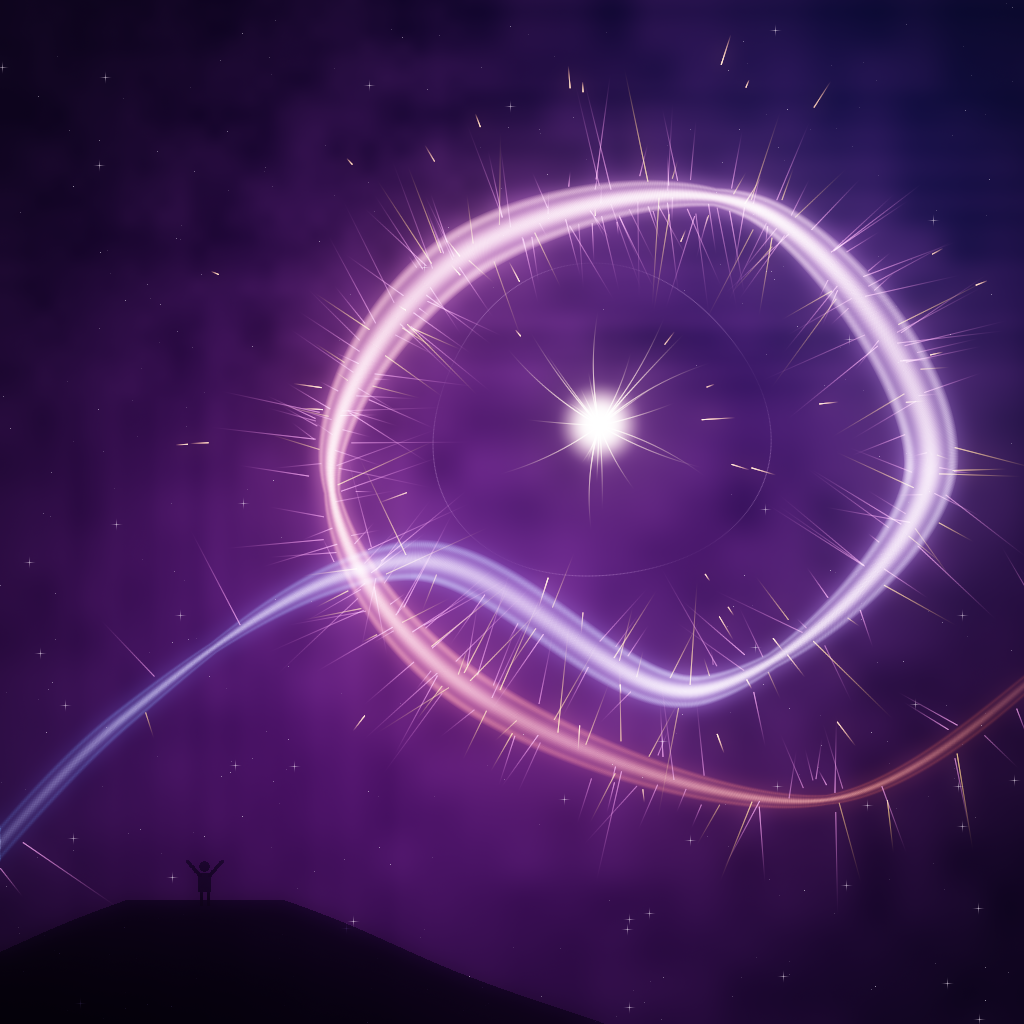
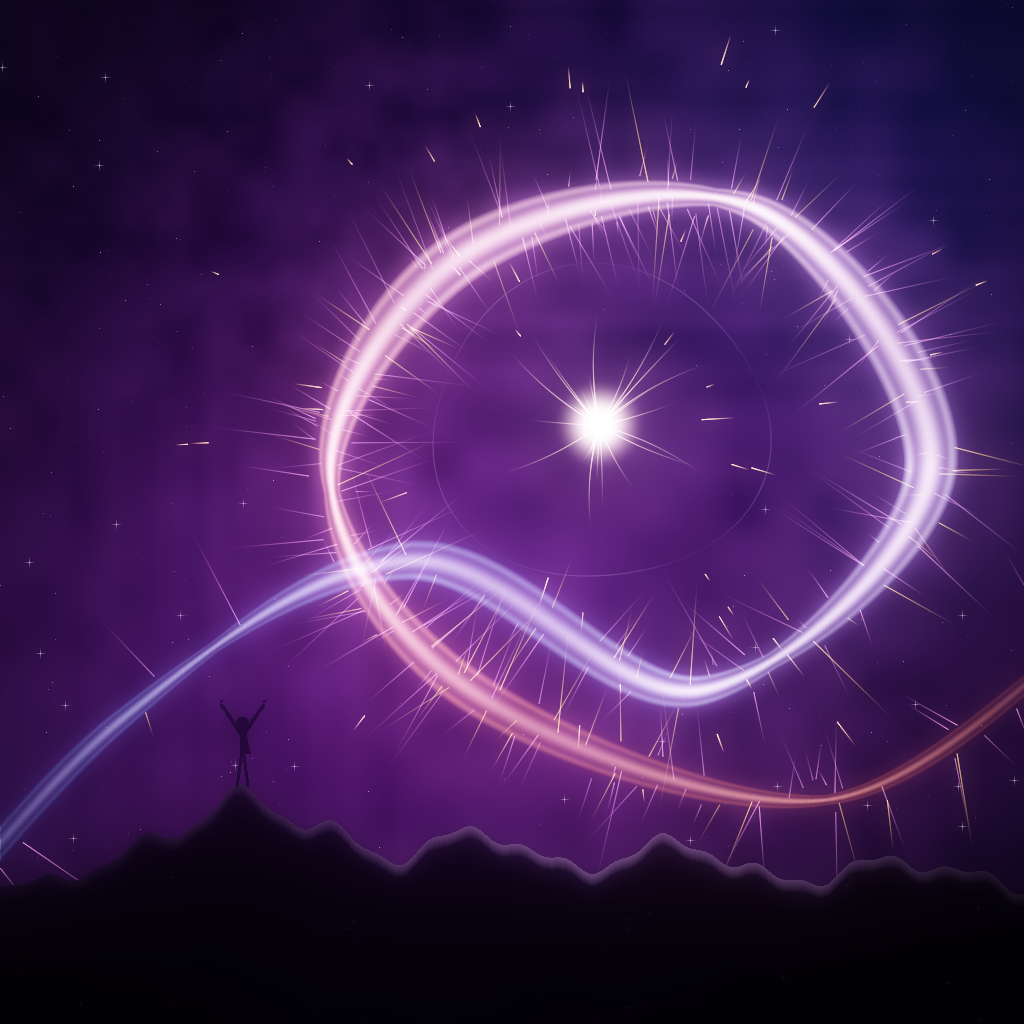
Jagged ridge with rim light, awed witness figure

Changed region(s): [[0.0, 0.6875, 1.0, 1.0]]

diff --git a/main.py b/main.py
@@ -254,55 +254,94 @@ def embers(img):
 
 
 def silhouette(img):
-    """A tiny figure on a dark ridge, arms raised to the light: the scale beat."""
+    """A dark jagged ridge across the foot of the frame with one small witness
+    standing on its peak, arms thrown out: the scale beat under all that light."""
     rng = random.Random(17)
-    fx, fy = 0.20 * W, 0.885 * H          # feet on the ridge
-    hgt = 46                              # ~4.5% of frame: small but readable
-    # the ridge: a dark slope the figure stands on
-    for y in range(int(fy) - 6, H):
-        wob = 8 * math.sin((y - fy) * 0.05 + 1.2)
-        for x in range(0, W):
-            d = abs(x - fx) - (y - fy) * 2.6 - wob
-            if d < 90:
-                i = (y * W + x) * 3
-                img[i] *= 0.10
-                img[i + 1] *= 0.08
-                img[i + 2] *= 0.16
-    # figure: head, body, two raised arms, legs; pure dark against the glow
-    hx, hy = fx, fy - hgt * 0.86
-    hr = hgt * 0.115
-    body_top = fy - hgt * 0.72
-    def dark(x, y):
+    base = 0.905 * H
+    # ridge height profile: a few peaks, the tallest at the figure's feet
+    peaks = [(0.00, 34), (0.09, 58), (0.17, 96), (0.235, 132), (0.30, 104),
+             (0.38, 70), (0.47, 96), (0.56, 58), (0.66, 84), (0.77, 46),
+             (0.88, 66), (1.00, 40)]
+
+    def ridge_y(xf):
+        for i in range(len(peaks) - 1):
+            x0, h0 = peaks[i]
+            x1, h1 = peaks[i + 1]
+            if x0 <= xf <= x1:
+                u = (xf - x0) / (x1 - x0)
+                u = u * u * (3 - 2 * u)
+                h = h0 + (h1 - h0) * u
+                h += 7.0 * math.sin(xf * 61.0) + 3.5 * math.sin(xf * 137.0 + 1.1)
+                return base - h
+        return base - peaks[-1][1]
+
+    for x in range(W):
+        ytop = int(ridge_y(x / W))
+        # rim light on the ridge: the ignition is up and to the right
+        rim = 0.55 * math.exp(-((x / W - 0.585) ** 2) / 0.10)
+        for y in range(ytop, H):
+            i = (y * W + x) * 3
+            depth = min((y - ytop) / 12.0, 1.0)
+            img[i] = img[i] * 0.05 + rim * (1.0 - depth) * 0.55
+            img[i + 1] = img[i + 1] * 0.04 + rim * (1.0 - depth) * 0.38
+            img[i + 2] = img[i + 2] * 0.08 + rim * (1.0 - depth) * 0.60
+
+    # the witness: feet on the tallest peak, ~7% of the frame tall
+    fx = 0.235 * W
+    fy = ridge_y(0.235) + 2.0
+    hgt = 72.0
+
+    def dark(x, y, alpha=1.0):
         if 0 <= x < W and 0 <= y < H:
             i = (y * W + x) * 3
-            img[i] *= 0.06
-            img[i + 1] *= 0.05
-            img[i + 2] *= 0.10
+            img[i] *= (1.0 - 0.94 * alpha)
+            img[i + 1] *= (1.0 - 0.95 * alpha)
+            img[i + 2] *= (1.0 - 0.90 * alpha)
+
+    hx = fx + 2.0
+    hy = fy - hgt * 0.88
+    hr = hgt * 0.098
     for oy in range(-int(hr) - 1, int(hr) + 2):
         for ox in range(-int(hr) - 1, int(hr) + 2):
             if ox * ox + oy * oy <= hr * hr:
                 dark(int(hx + ox), int(hy + oy))
-    bw = hgt * 0.13
-    for y in range(int(body_top), int(fy - hgt * 0.30)):
-        for x in range(int(hx - bw), int(hx + bw) + 1):
+    # torso leaning back, hips forward: the classic awed stance
+    torso_top = hy + hr
+    torso_bot = fy - hgt * 0.44
+    for y in range(int(torso_top), int(torso_bot)):
+        u = (y - torso_top) / max(torso_bot - torso_top, 1.0)
+        cx = hx + 3.2 * u
+        halfw = 2.6 + 2.4 * u
+        for x in range(int(cx - halfw), int(cx + halfw) + 1):
             dark(x, y)
-    # raised arms: from shoulders up and out
+    # arms: up and out, hands open
     for sgn in (-1, 1):
-        for s in range(int(hgt * 0.42)):
-            t = s / (hgt * 0.42)
-            ax = hx + sgn * (hgt * 0.10 + t * hgt * 0.30)
-            ay = body_top + hgt * 0.06 - t * hgt * 0.34
-            for oy in range(-1, 2):
-                for ox in range(-1, 2):
-                    dark(int(ax + ox), int(ay + oy))
-    # legs
+        ax0 = hx + sgn * 2.6
+        ay0 = torso_top + 3.0
+        ax1 = hx + sgn * hgt * 0.30
+        ay1 = torso_top - hgt * 0.40
+        for s in range(int(hgt * 0.48)):
+            t = s / (hgt * 0.48)
+            ex = ax0 + (ax1 - ax0) * t
+            ey = ay0 + (ay1 - ay0) * t + 3.0 * t * t
+            for oy in (-1, 0, 1):
+                for ox in (-1, 0, 1):
+                    dark(int(ex + ox), int(ey + oy))
+        for oy in (-1, 0, 1):
+            for ox in (-1, 0, 1):
+                dark(int(ax1 + ox), int(ay1 + oy))
+    # legs, slightly apart for balance
     for sgn in (-1, 1):
-        for s in range(int(hgt * 0.30)):
-            lx = hx + sgn * hgt * 0.07
-            ly = fy - hgt * 0.30 + s
-            for oy in range(0, 2):
-                for ox in range(-1, 2):
-                    dark(int(lx + ox), int(ly + oy))
+        for s in range(int(hgt * 0.46)):
+            t = s / (hgt * 0.46)
+            lx = hx + sgn * (1.2 + 4.4 * t)
+            ly = torso_bot + s
+            for ox in (-1, 0, 1):
+                dark(int(lx + ox), int(ly))
+    # a faint glow catching the figure's edge: it is lit from behind
+    for s in range(26):
+        a = -0.6 + s * 0.05
+        dark(int(hx + math.cos(a) * (hr + 1.4)), int(hy + math.sin(a) * (hr + 1.4)), 0.35)
 
 
 def stars(img):
